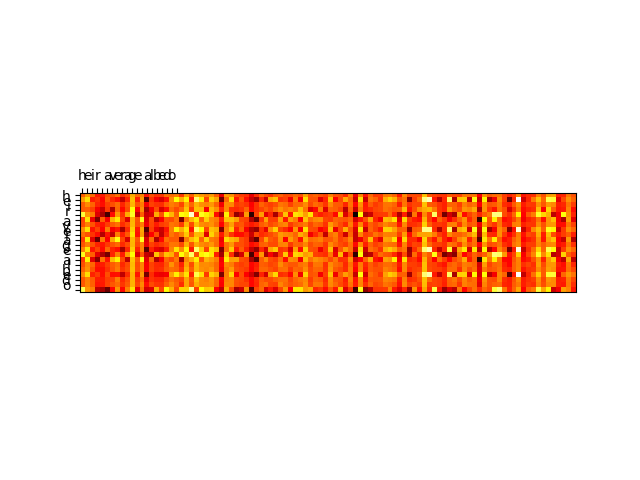
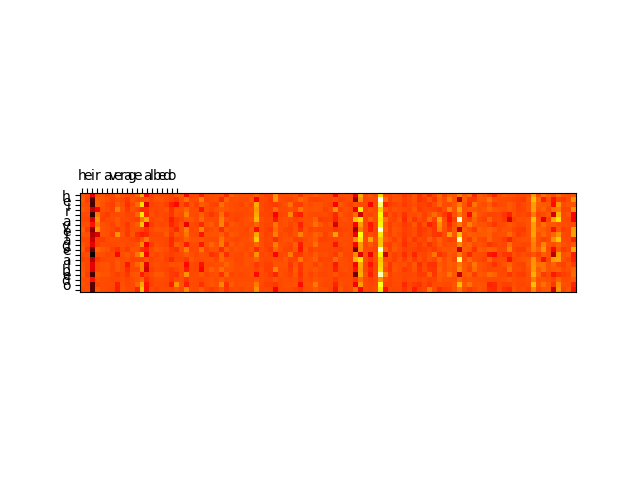
started decode_fancy

Changed region(s): [[0.125, 0.4062, 0.9062, 0.625]]

diff --git a/a5/a5-distrib/models.py b/a5/a5-distrib/models.py
@@ -74,7 +74,7 @@ def train_seq2seq_model(model, train_dataset, val_dataset, args):
     trainer.train()
 
 
-def score_sequence(pred_to_first_eos, gold_labels,print_output=True) -> (int, int, int):
+def score_sequence(pred_to_first_eos, gold_labels,print_output=True) -> Tuple[int, int, int]:
     """
     Evaluates the given sequence and returns the sufficient statistics for accuracy computation.
     DO NOT MODIFY THIS -- we are giving it to you here in models.py for convenience, but we will compute your accuracy
@@ -189,7 +189,26 @@ def decode_oracle(model, indexer, exs, num_exs):
 
 def decode_fancy(model, indexer, exs, num_exs):
     # Same as decode_basic but returns a reranked prediction.
-    raise Exception("Implement me")
+    all_example_preds = []
+    num_exs_to_use = min(num_exs, len(exs)) if num_exs > 0 else len(exs)
+    for i in range(0, num_exs_to_use):
+        ex_length = sum(exs[i]['attention_mask'])
+        dev_input_tensor = torch.tensor([exs[i]['input_ids'][0:ex_length]], dtype=torch.long)
+        # You can increase this to run "real" beam search
+        beam_size = 10
+        # The generate method runs decoding with the specified set of
+        # hyperparameters and returns a list of possible sequences
+        output_ids = model.generate(dev_input_tensor, num_beams=beam_size, max_length=65, early_stopping=True, num_return_sequences=beam_size)
+        # [0] extracts the first candidate in the beam for the simple decoding method
+        #gold_labels = [indexer.get_object(j) for j in exs[i]['labels'] if j >= 0]
+        for i in range(0,beam_size):
+            current_ex = pred_indices_to_prediction(output_ids.data[i][1:], indexer)
+            
+            #(top1_em, top1_rec, top1_tt) = score_sequence(one_best, gold_labels,print_output=False)
+            # do some stuff to compare strings? idk...
+        one_best = pred_indices_to_prediction(output_ids.data[0][1:], indexer)
+        all_example_preds.append(one_best)
+    return all_example_preds
 
 
 # 'east' doesn't actually exist

diff --git a/a5/a5-distrib/transformer.py b/a5/a5-distrib/transformer.py
@@ -163,13 +163,13 @@ def train_classifier(args, train, dev):
 
     # The following code DOES NOT WORK but can be a starting point for your implementation
     # Some suggested snippets to use:
-    model = Transformer(vocab_size=50,num_positions=20,d_model = 69,d_internal = 100,num_classes = 3,num_layers = 2)
+    model = Transformer(vocab_size=27,num_positions=20,d_model = 50,d_internal = 100,num_classes = 3,num_layers = 2)
     model.zero_grad()
     model.train()
-    optimizer = optim.Adam(model.parameters(), lr=1e-4)
+    optimizer = optim.Adam(model.parameters(), lr=1e-3)
     softmax = nn.LogSoftmax(dim=1)
     start_time = time.time()
-    num_epochs = 12
+    num_epochs = 15
     for t in range(0, num_epochs):
         loss_this_epoch = 0.0
         random.seed(t)
